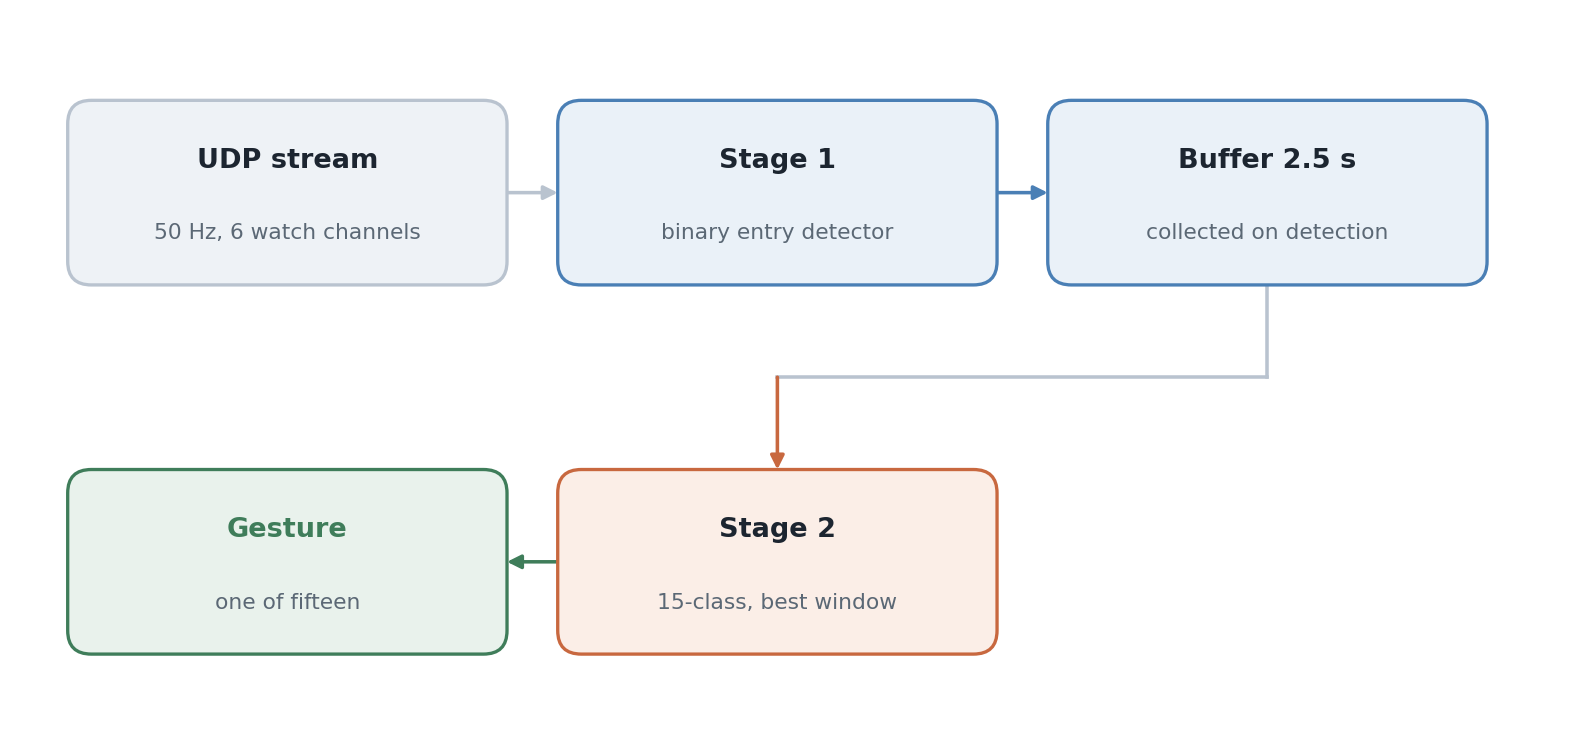
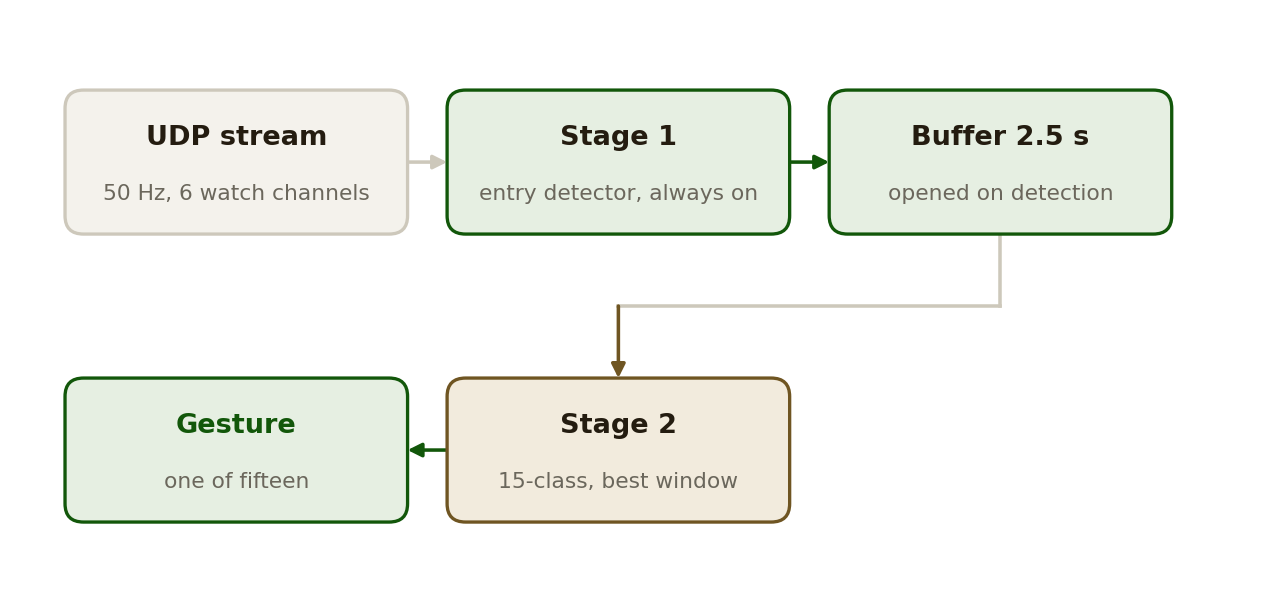
Rebuild README to the second standard
Centered header with shields badges in the fixed order, an outward link
bar and a captioned hero. The pipeline stays the hero because no numbers
are committed. Method points become subheadings; a Related section names
IVO, the sibling streaming app and the PPG and sEMG repositories.
pyproject.toml replaces requirements.txt and adds console scripts; CI
installs the package on 3.10, 3.11 and 3.12 and checks both entry point
forms. Figures redrawn with the shared figstyle palette on a transparent
ground. American spelling; CITATION.cff at version 1.0.0.

diff --git a/docs/figures/make_hero.py b/docs/figures/make_hero.py
@@ -1,76 +1,67 @@
-"""Render the pipeline figure used at the top of the README.
+"""Draw the README hero: the two-stage pipeline.
 
     python docs/figures/make_hero.py
 
-Writes hero_pipeline.png and hero_pipeline-dark.png.
+Writes hero_pipeline.png and hero_pipeline-dark.png. No numbers are committed to
+this repository, so the pipeline is the hero rather than a results figure.
 """
 import os
+import sys
 
-import matplotlib
-matplotlib.use("Agg")
-import matplotlib.pyplot as plt
-from matplotlib.patches import FancyBboxPatch, FancyArrowPatch
+HERE = os.path.dirname(os.path.abspath(__file__)) + os.sep
+sys.path.insert(0, HERE)
 
-THEMES = {
-    "light": dict(bg="white", ink="#1c2530", muted="#5b6875", line="#b9c3cf",
-                  fill="#eef2f6", s1="#4a7fb5", s2="#c8683f", out="#3f7d5a",
-                  f1="#eaf1f8", f2="#fbeee7", fo="#e9f2ec"),
-    "dark": dict(bg="#0d1117", ink="#e6edf3", muted="#9198a1", line="#3d444d",
-                 fill="#161b22", s1="#6ea8dd", s2="#e08a5c", out="#5aa87a",
-                 f1="#12202f", f2="#2a1c14", fo="#12241a"),
-}
-
-HERE = os.path.dirname(os.path.abspath(__file__))
+import figstyle  # noqa: E402
+import matplotlib.pyplot as plt  # noqa: E402
+from matplotlib.patches import FancyArrowPatch, FancyBboxPatch  # noqa: E402
 
 
-def render(theme, out):
-    T = THEMES[theme]
-    fig, ax = plt.subplots(figsize=(9.2, 4.3), dpi=170)
+def pipeline(T):
+    fig, ax = plt.subplots(figsize=(figstyle.WIDTH, 4.3))
     ax.set_xlim(0, 92)
     ax.set_ylim(0, 43)
     ax.axis("off")
-    fig.patch.set_facecolor(T["bg"])
 
     def box(x, y, w, h, title, sub, edge=None, face=None, tcol=None):
         ax.add_patch(FancyBboxPatch((x, y), w, h, boxstyle="round,pad=0,rounding_size=1.4",
                                     linewidth=1.4, edgecolor=edge or T["line"],
                                     facecolor=face or T["fill"], zorder=2))
         ax.text(x + w / 2, y + h / 2 + 1.9, title, ha="center", va="center",
-                fontsize=11.5, color=tcol or T["ink"], fontweight="bold", zorder=3)
+                fontsize=figstyle.TITLE, color=tcol or T["ink"], fontweight="bold", zorder=3)
         ax.text(x + w / 2, y + h / 2 - 2.4, sub, ha="center", va="center",
-                fontsize=9.2, color=T["muted"], zorder=3)
+                fontsize=figstyle.SMALL, color=T["muted"], zorder=3)
 
     def arrow(x0, y0, x1, y1, c=None):
         ax.add_patch(FancyArrowPatch((x0, y0), (x1, y1), arrowstyle="-|>", mutation_scale=12,
-                                     linewidth=1.5, color=c or T["line"], shrinkA=0, shrinkB=0, zorder=1))
+                                     linewidth=1.5, color=c or T["line"],
+                                     shrinkA=0, shrinkB=0, zorder=1))
 
+    def line(xs, ys, c=None):
+        ax.plot(xs, ys, color=c or T["line"], linewidth=1.5, zorder=1)
+
+    G, GF, D, DF = T["green"], T["green_fill"], T["gold"], T["gold_fill"]
     W, H = 26.0, 11.0
     R1, R2 = 27.0, 5.0          # two rows, so no horizontal chain exceeds three boxes
     X0 = 3.0
 
     box(X0, R1, W, H, "UDP stream", "50 Hz, 6 watch channels")
     arrow(X0 + W, R1 + H / 2, X0 + W + 3, R1 + H / 2)
-    box(X0 + W + 3, R1, W, H, "Stage 1", "binary entry detector", T["s1"], T["f1"])
-    arrow(X0 + 2 * W + 3, R1 + H / 2, X0 + 2 * W + 6, R1 + H / 2, T["s1"])
-    box(X0 + 2 * W + 6, R1, W, H, "Buffer 2.5 s", "collected on detection", T["s1"], T["f1"])
+    box(X0 + W + 3, R1, W, H, "Stage 1", "entry detector, always on", G, GF)
+    arrow(X0 + 2 * W + 3, R1 + H / 2, X0 + 2 * W + 6, R1 + H / 2, G)
+    box(X0 + 2 * W + 6, R1, W, H, "Buffer 2.5 s", "opened on detection", G, GF)
 
     # drop to the second row
     cx = X0 + 2 * W + 6 + W / 2
     mid = (R1 + R2 + H) / 2
-    ax.plot([cx, cx], [R1, mid], color=T["line"], lw=1.5, zorder=1)
-    ax.plot([X0 + W + 3 + W / 2, cx], [mid, mid], color=T["line"], lw=1.5, zorder=1)
-    arrow(X0 + W + 3 + W / 2, mid, X0 + W + 3 + W / 2, R2 + H, T["s2"])
+    line([cx, cx], [R1, mid])
+    line([X0 + W + 3 + W / 2, cx], [mid, mid])
+    arrow(X0 + W + 3 + W / 2, mid, X0 + W + 3 + W / 2, R2 + H, D)
 
-    box(X0 + W + 3, R2, W, H, "Stage 2", "15-class, best window", T["s2"], T["f2"])
-    arrow(X0 + W + 3, R2 + H / 2, X0 + W, R2 + H / 2, T["out"])
-    box(X0, R2, W, H, "Gesture", "one of fifteen", T["out"], T["fo"], T["out"])
-
-    fig.tight_layout(pad=0.2)
-    fig.savefig(out, dpi=170, bbox_inches="tight", facecolor=T["bg"])
-    plt.close(fig)
-    print("wrote", out)
+    box(X0 + W + 3, R2, W, H, "Stage 2", "15-class, best window", D, DF)
+    arrow(X0 + W + 3, R2 + H / 2, X0 + W, R2 + H / 2, G)
+    box(X0, R2, W, H, "Gesture", "one of fifteen", G, GF, G)
+    return fig
 
 
 if __name__ == "__main__":
-    render("light", os.path.join(HERE, "hero_pipeline.png"))
-    render("dark", os.path.join(HERE, "hero_pipeline-dark.png"))
+    figstyle.save_both(pipeline, HERE + "hero_pipeline")

diff --git a/docs/figures/figstyle.py b/docs/figures/figstyle.py
@@ -1,0 +1,123 @@
+"""House style for README figures. Copy this file next to make_hero.py.
+
+One palette for every repository, taken from the portfolio site, so a README
+figure, a social preview card and the site read as one hand. Light figures sit
+on GitHub's white canvas, dark figures on its #0d1117 canvas. Both are saved
+with a transparent background: GitHub paints its own canvas behind README
+images, so the figure follows whichever theme the reader has, including the
+dimmed dark theme, without a visible rectangle.
+
+Type: if a fonts/ directory sits beside this file with Archivo-Regular.ttf,
+Archivo-SemiBold.ttf and IBMPlexMono-Medium.ttf (built by
+_standards/fonts/build_fonts.py), labels are set in Archivo and numbers in IBM
+Plex Mono, the site's faces. Without it, DejaVu Sans, so nothing breaks.
+
+    import figstyle
+
+    def draw(T):                       # T is one entry of figstyle.PALETTE
+        fig, ax = plt.subplots(figsize=(figstyle.WIDTH, 4.6))
+        ax.text(..., fontfamily=figstyle.MONO)     # numbers
+        return fig
+
+    figstyle.save_both(draw, HERE + "hero_scenarios")
+    # writes hero_scenarios.png and hero_scenarios-dark.png
+
+Contrast on the canvas each theme is drawn for, WCAG ratio: light green 8.8,
+light gold 7.0, light muted 5.4; dark green 9.8, dark gold 8.4, dark muted 8.2.
+"""
+import glob
+import os
+
+import matplotlib
+
+matplotlib.use("Agg")
+import matplotlib.pyplot as plt
+from matplotlib import font_manager
+
+PALETTE = {
+    "light": dict(
+        canvas="#ffffff",       # GitHub light canvas, for reference only, never painted
+        ink="#241c10",          # site day ink
+        soft="#332918",
+        muted="#6b675c",
+        line="#cdc8bb",
+        fill="#f4f2ec",         # box fill, a warm paper tint on white
+        green="#12570a",        # site day green
+        gold="#6f5522",         # site day gold
+        green_fill="#e6efe2",
+        gold_fill="#f2ebdd",
+    ),
+    "dark": dict(
+        canvas="#0d1117",       # GitHub dark canvas, for reference only, never painted
+        ink="#ece7d9",          # site night ink, bone white
+        soft="#ddd9cb",
+        muted="#a9ac9b",
+        line="#3a3c33",
+        fill="#161811",
+        green="#44d62c",        # site night green, phosphor
+        gold="#c9a96a",         # site night gold, brass
+        green_fill="#12200f",
+        gold_fill="#26211a",
+    ),
+}
+
+DPI = 170
+WIDTH = 9.2      # inches. 900 / (9.2 * 170) = 0.575, so labels survive the README column.
+TITLE = 11.5     # point sizes the standard fixes
+BODY = 9.6
+SMALL = 9.2
+
+_FONTS = os.path.join(os.path.dirname(os.path.abspath(__file__)), "fonts")
+_have_fonts = False
+for _p in glob.glob(os.path.join(_FONTS, "*.ttf")):
+    font_manager.fontManager.addfont(_p)
+    _have_fonts = True
+_names = {f.name for f in font_manager.fontManager.ttflist}
+SANS = "Archivo" if _have_fonts and "Archivo" in _names else "DejaVu Sans"
+MONO = "IBM Plex Mono" if _have_fonts and "IBM Plex Mono" in _names else "DejaVu Sans Mono"
+
+
+def apply(T):
+    """Set matplotlib defaults for one theme. Called by save_both before draw()."""
+    plt.rcParams.update({
+        "font.family": SANS,
+        "font.size": BODY,
+        "text.color": T["ink"],
+        "axes.labelcolor": T["muted"],
+        "axes.edgecolor": T["line"],
+        "axes.linewidth": 1.0,
+        "axes.titlesize": TITLE,
+        "axes.titleweight": "bold",
+        "axes.titlecolor": T["ink"],
+        "axes.spines.top": False,
+        "axes.spines.right": False,
+        "axes.grid": False,
+        "xtick.color": T["muted"],
+        "ytick.color": T["muted"],
+        "xtick.labelsize": BODY,
+        "ytick.labelsize": BODY,
+        "legend.frameon": False,
+        "legend.fontsize": BODY,
+        "figure.facecolor": "none",
+        "axes.facecolor": "none",
+        "savefig.facecolor": "none",
+        "savefig.edgecolor": "none",
+    })
+
+
+def mono_ticks(ax, axis="y"):
+    """Set an axis's tick labels in the numeric face."""
+    for label in (ax.get_yticklabels() if axis == "y" else ax.get_xticklabels()):
+        label.set_fontfamily(MONO)
+
+
+def save_both(draw, stem):
+    """Render draw(T) once per theme and write <stem>.png and <stem>-dark.png."""
+    for theme, suffix in (("light", ""), ("dark", "-dark")):
+        T = PALETTE[theme]
+        apply(T)
+        fig = draw(T)
+        out = f"{stem}{suffix}.png"
+        fig.savefig(out, dpi=DPI, bbox_inches="tight", pad_inches=0.15, transparent=True)
+        plt.close(fig)
+        print("wrote", out)

diff --git a/README.md b/README.md
@@ -1,20 +1,28 @@
+<div align="center">
+
 # IMU Gesture Classifier
 
 Yuhyeon Lee · 2025
 
-[![tests](https://github.com/blueion0612/IMU_Gesture_Classifier/actions/workflows/tests.yml/badge.svg)](https://github.com/blueion0612/IMU_Gesture_Classifier/actions/workflows/tests.yml)
+[![tests](https://img.shields.io/github/actions/workflow/status/blueion0612/IMU_Gesture_Classifier/tests.yml?branch=main&label=tests)](https://github.com/blueion0612/IMU_Gesture_Classifier/actions/workflows/tests.yml)
 [![License](https://img.shields.io/github/license/blueion0612/IMU_Gesture_Classifier)](LICENSE)
-[![Python](https://img.shields.io/badge/python-3.10%2B-blue)](https://www.python.org/)
+[![Python](https://img.shields.io/badge/python-3.10%20%7C%203.11%20%7C%203.12-blue)](https://www.python.org/)
 [![Status](https://img.shields.io/badge/status-research%20code-orange)](#limitations)
 
-[**Method**](#method) · [**Data**](#data) · [**Streaming app**](https://github.com/wearable-motion-capture/sensor-stream-apps)
+[**Recordings and checkpoints**](https://drive.google.com/drive/folders/1mgxz30EclogKA0BMhB4Qonne6MmlWgjL?usp=sharing) · [**Streaming app**](https://github.com/wearable-motion-capture/sensor-stream-apps) · [**Related**](#related)
 
 <picture>
   <source media="(prefers-color-scheme: dark)" srcset="docs/figures/hero_pipeline-dark.png">
   <img alt="UDP stream feeds a binary entry detector, a detection opens a 2.5 second buffer, and a 15-class model reads that buffer" src="docs/figures/hero_pipeline.png">
 </picture>
 
-**IMU Gesture Classifier** recognises fifteen hand gestures from a smartwatch, live,
+</div>
+
+*The two-stage pipeline. Green is the entry detector that runs on every window,
+gold the classifier that runs only after a detection. The hero is the pipeline and
+not a results figure because no numbers are committed here; see Results.*
+
+**IMU Gesture Classifier** recognizes fifteen hand gestures from a smartwatch, live,
 using only the watch's accelerometer and gyroscope. Detection and classification are
 split: a cheap binary model watches the stream continuously and decides when a
 gesture has started, and only then does a fifteen-class model run on the 2.5 seconds
@@ -50,7 +58,9 @@ plots. Read those rather than trusting a summary.
 ## Quick start
 
 ```bash
-pip install -r requirements.txt
+git clone https://github.com/blueion0612/IMU_Gesture_Classifier
+cd IMU_Gesture_Classifier
+pip install -e .
 ```
 
 Download `gesture_data/` (see [Data](#data)), then:
@@ -68,25 +78,38 @@ python -m imu_gesture.inference \
     --stage2 gesture_data/models/stage2_tcn_seq100.pt
 ```
 
+Each module is also installed as a command: `imu-collector`, `imu-stats`,
+`imu-train-stage1`, `imu-train-stage2` and `imu-inference` take the same arguments.
+
 ## Method
 
-**Why two stages.** A fifteen-class model run continuously on a sliding window has to
+### Why two stages
+
+A fifteen-class model run continuously on a sliding window has to
 decide, at every step, both whether anything is happening and what it is. Splitting
 those questions lets the first model stay small enough to run on every window while
 the second sees a complete gesture rather than a fragment of one.
 
-**Stage 1, entry detection.** A binary model over a sliding window of the six watch
+### Stage 1, entry detection
+
+A binary model over a sliding window of the six watch
 channels. The window length and stride are part of the grid search, not fixed in
 advance.
 
-**Stage 2, classification.** A detection opens a 2.5 second buffer. The classifier is
+### Stage 2, classification
+
+A detection opens a 2.5 second buffer. The classifier is
 then run over several windows inside that buffer and the highest-confidence result
 wins, so the gesture does not have to start exactly where the detector fired.
 
-**Channels.** Six, all from the watch: linear acceleration and angular rate in three
+### Channels
+
+Six, all from the watch: linear acceleration and angular rate in three
 axes each. The phone's sensors are received but not used for training.
 
-**Cooldown.** After a recognised gesture the detector is suppressed for a
+### Cooldown
+
+After a recognized gesture the detector is suppressed for a
 configurable interval, two seconds by default, so that one movement cannot produce a
 burst of detections.
 
@@ -119,8 +142,9 @@ imu_gesture/
   train_stage2.py    15-class model, grid search over model
   inference.py       live recognition from the stream
 tests/               channel map and model shape checks
-docs/figures/        README figure and the script that draws it
+docs/figures/        README figure, the script that draws it, figstyle.py
 gesture_data/        recordings, checkpoints and reports, not in git
+pyproject.toml       package definition, dependencies, console scripts
 ```
 
 ## Tests
@@ -132,8 +156,8 @@ unique, that the split ratios sum to one, and that every advertised model builds
 returns one logit per sample for stage 1 and fifteen per sample for stage 2.
 
 ```bash
-pytest -q                    # if pytest is installed
-python tests/test_models.py  # works without it
+python -m pytest -q
+python tests/test_models.py  # without pytest
 ```
 
 ## Data
@@ -171,14 +195,29 @@ the two layouts order their fields differently.
 - **The 2.5 second buffer bounds gesture length.** Anything slower is truncated.
 - **UDP with no sequence number**, so dropped packets shorten a window silently.
 
+## Related
+
+- [IVO](https://github.com/blueion0612/IVO): the presentation controller that loads
+  the checkpoints this repository trains, reading the 30-float packet and remapping
+  the six channels.
+- [IMU_Stream_APP_MJU](https://github.com/blueion0612/IMU_Stream_APP_MJU): the
+  sibling streaming app. It sends the 30-float packet, so it is not a source for this
+  collector; see Data.
+- [PPG_Classifier](https://github.com/blueion0612/PPG_Classifier) and
+  [sEMG_Gesture_Classifier](https://github.com/blueion0612/sEMG_Gesture_Classifier):
+  the same question, hand state from a wrist signal, asked of photoplethysmography
+  and of surface electromyography.
+
 ## Citation
 
 ```bibtex
 @misc{lee2025imugesture,
-  author = {Yuhyeon Lee},
-  title  = {IMU Gesture Classifier: two-stage gesture recognition from smartwatch inertial data},
-  year   = {2025},
-  note   = {Unpublished. https://github.com/blueion0612/IMU_Gesture_Classifier}
+  author  = {Yuhyeon Lee},
+  title   = {IMU Gesture Classifier: two-stage gesture recognition from smartwatch inertial data},
+  year    = {2025},
+  version = {1.0.0},
+  url     = {https://github.com/blueion0612/IMU_Gesture_Classifier},
+  note    = {Unpublished}
 }
 ```
 
